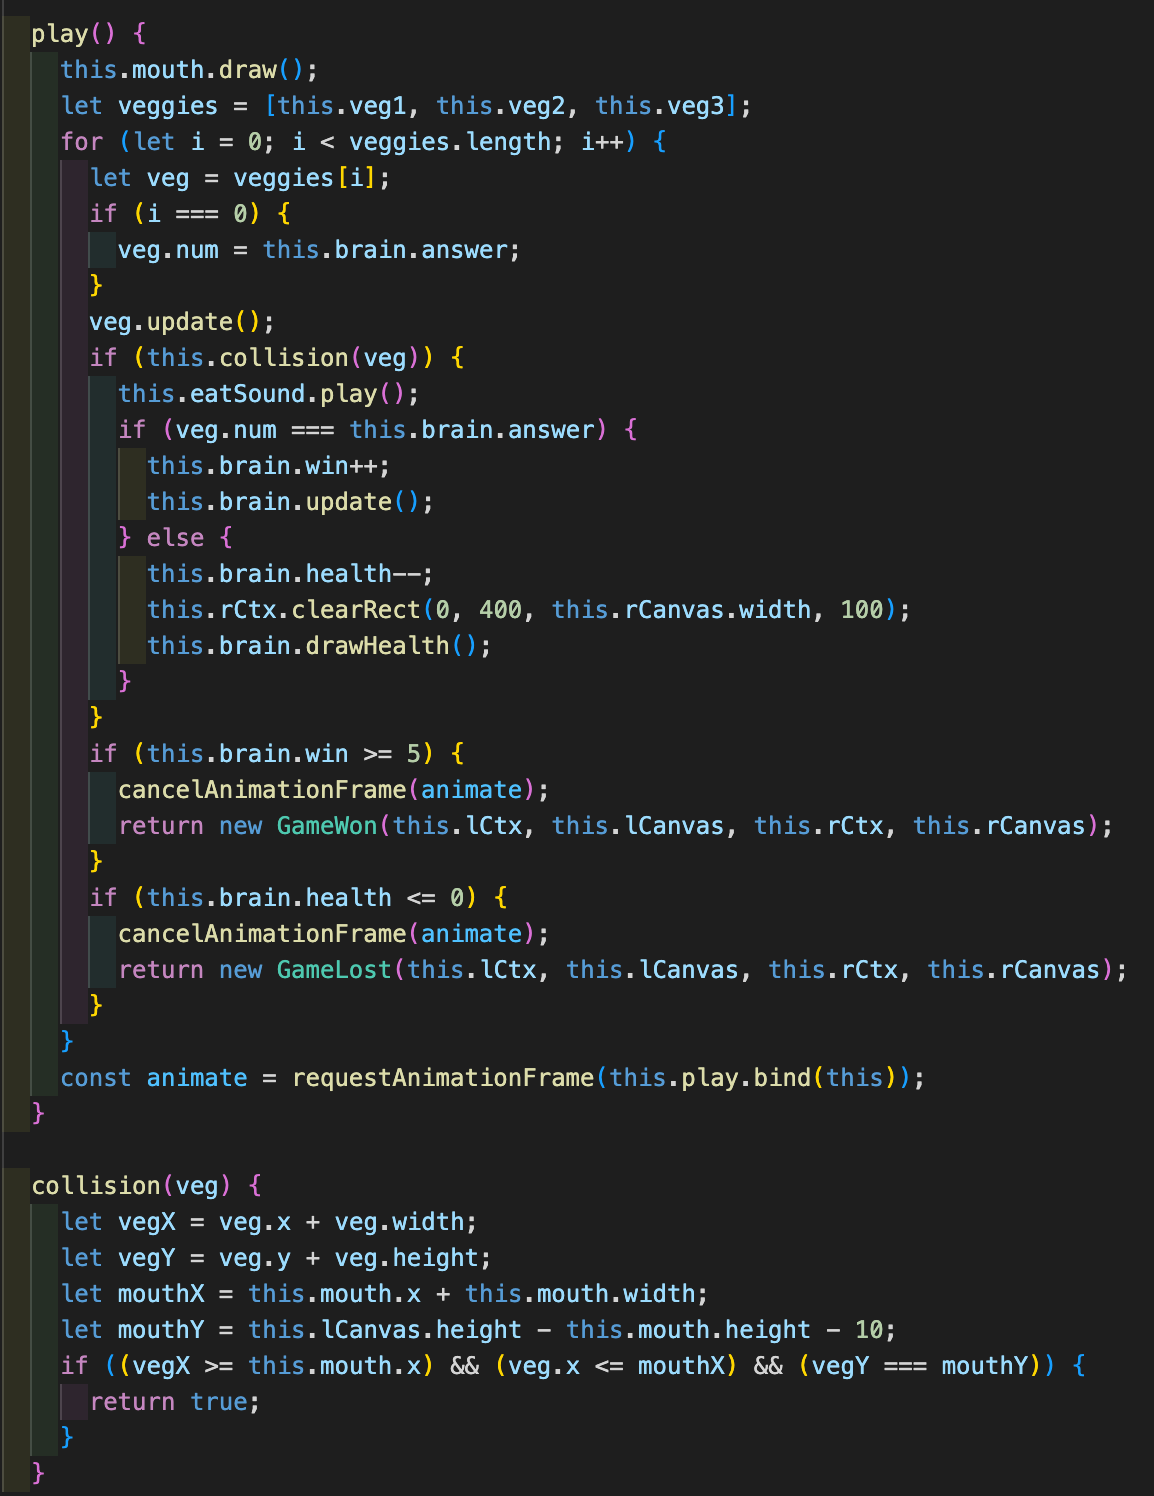
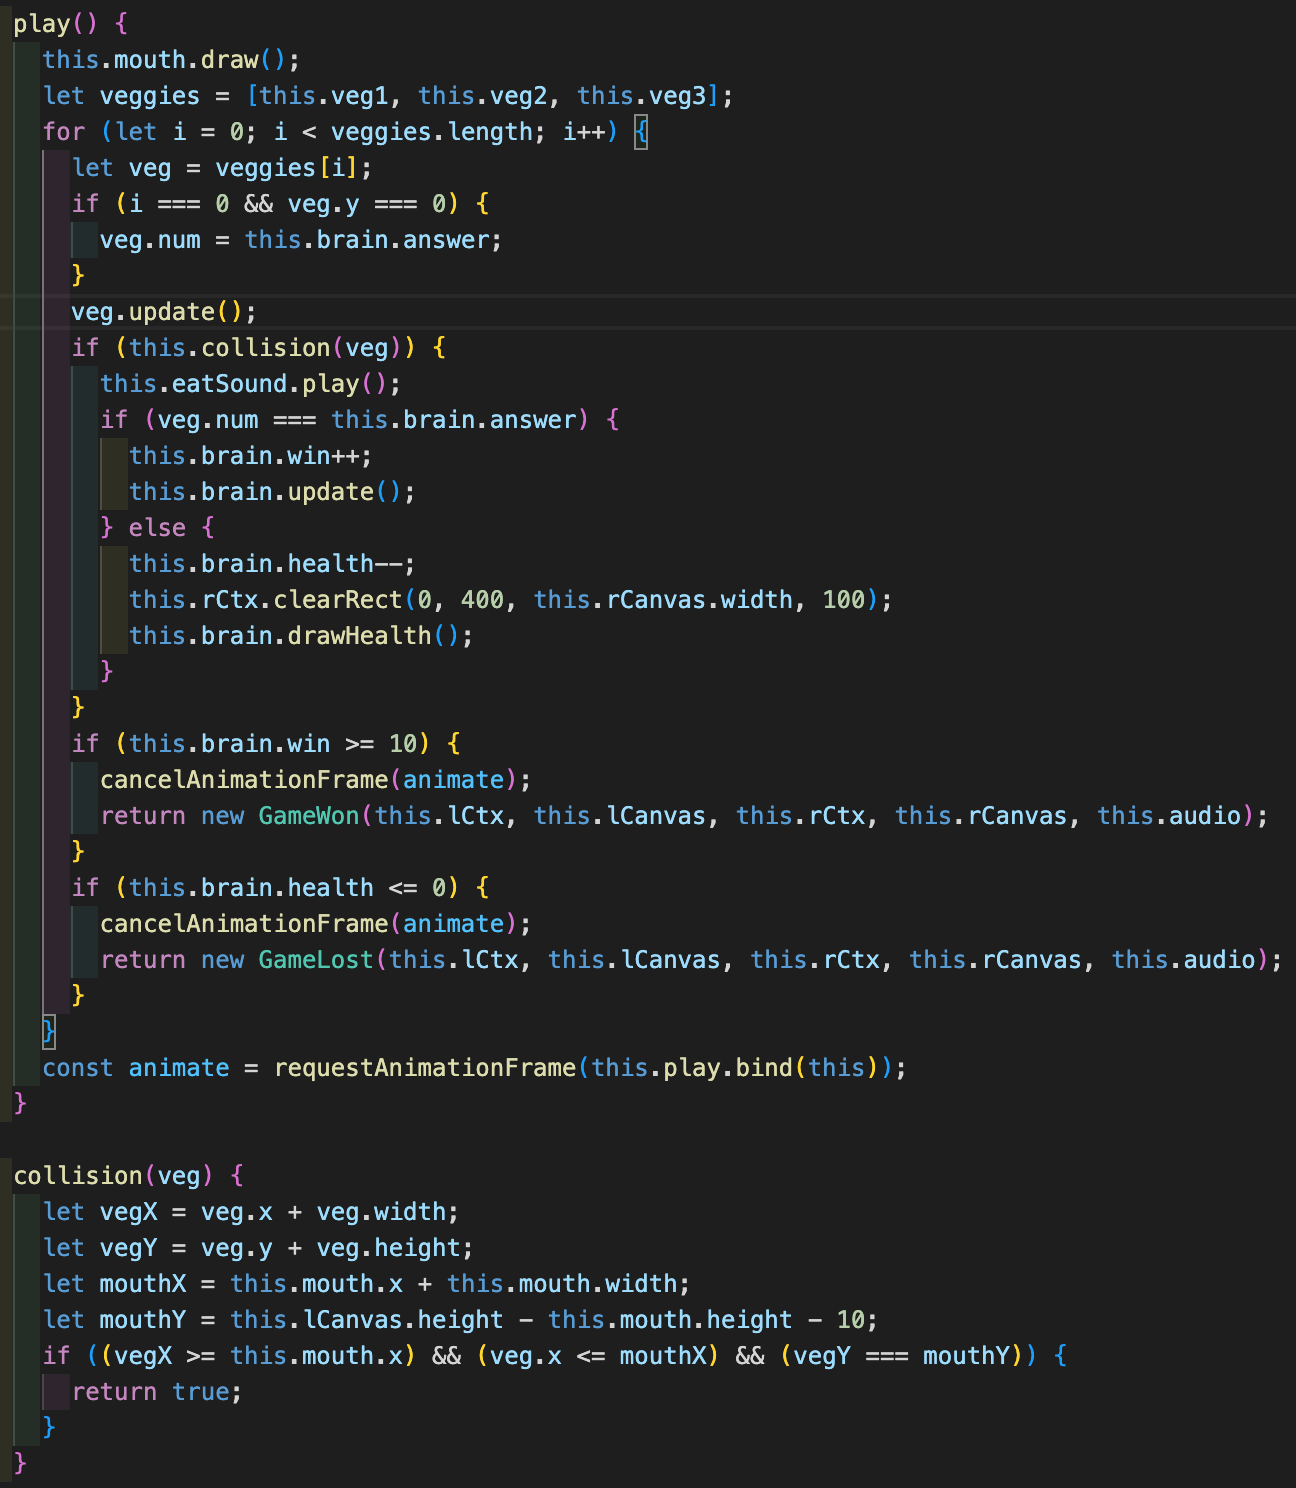
readME edits

Changed region(s): [[0.0, 0.0, 0.9671, 0.7419], [0.0, 0.7728, 0.9047, 0.9892]]

diff --git a/README.md b/README.md
@@ -16,13 +16,11 @@ The game is organized and rendered through a succession of class instances. The 
 
 ![](./src/assets/images/codesnippet.png)
 
+window.requestAnimationFrame() is used to keep the vegetables falling (via the Veg class update method). The cycle stops when the player either earns 10 points, or loses 5 points, instanciating either the game won or lost class.
+
 ## Technologies Implemented
 
   - Vanilla JavaScript
   - HTML5 Canvas
   - CSS
   - Webpack/Babel
-  
- ## Future Additions
-  - Multiple difficulty levels featuring various types of mathematical operations
-  - Incorporating different subjects beyond math in a quiz-style key-value pair matching game
